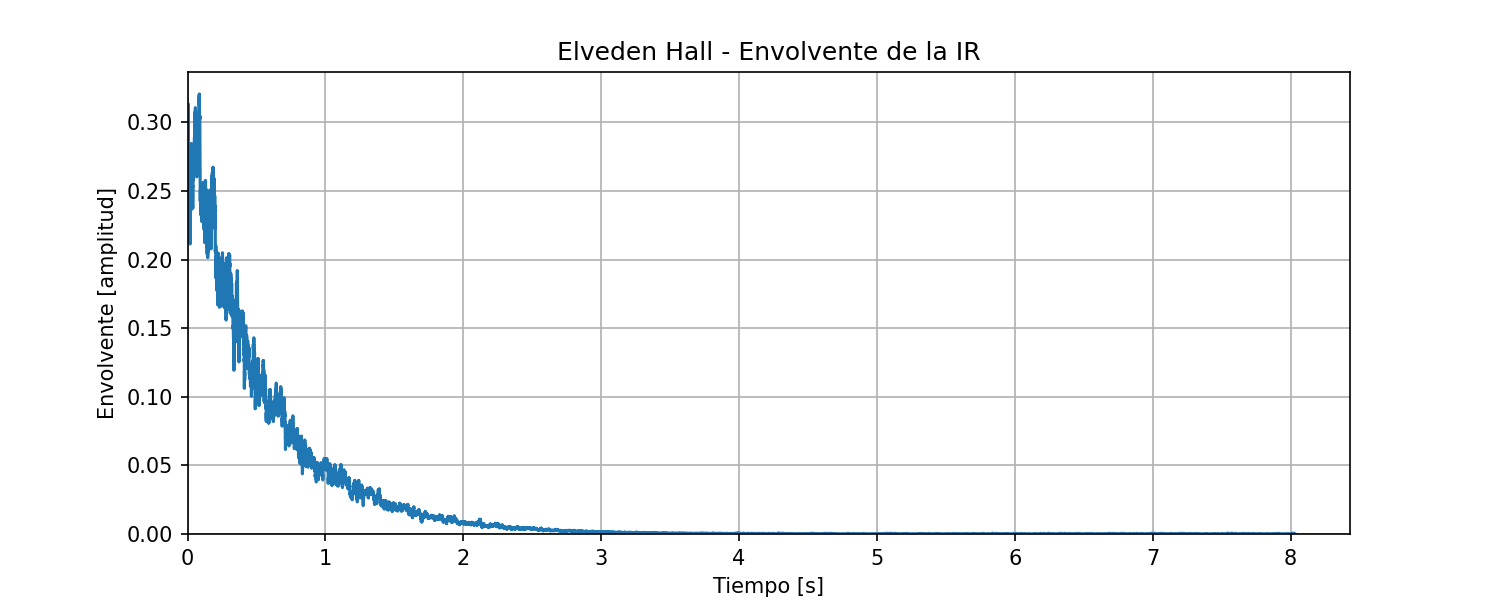
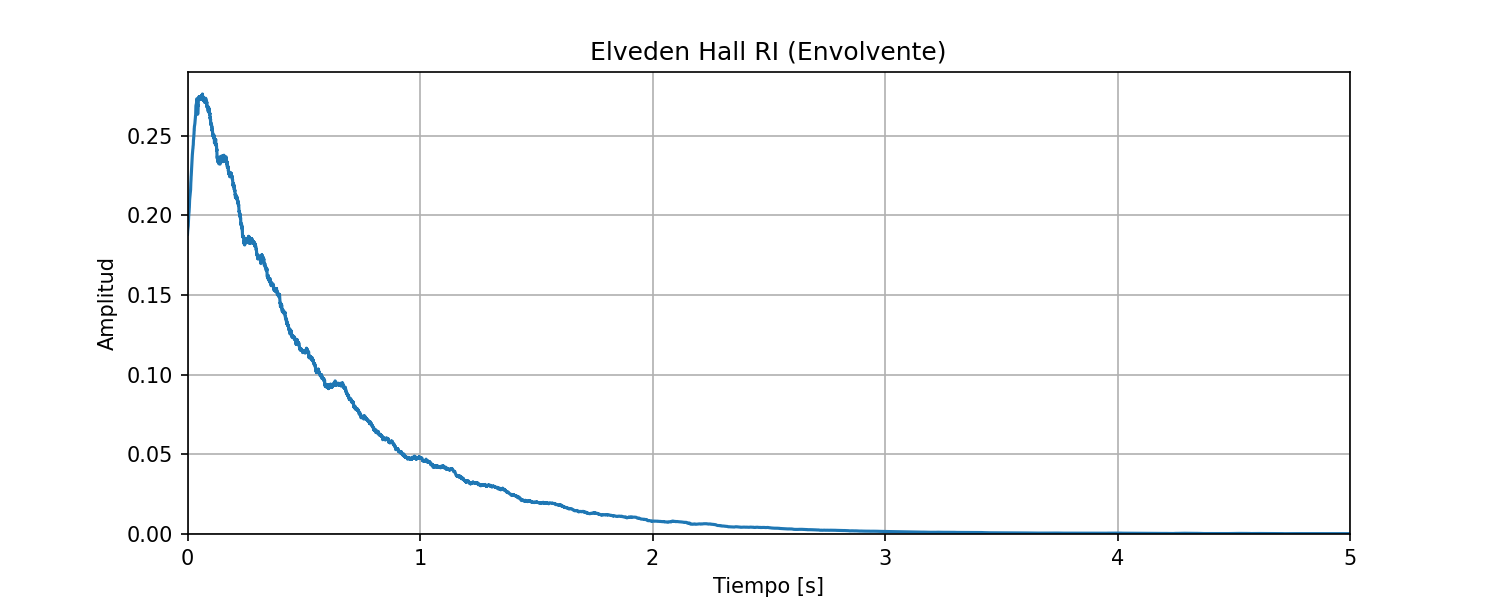
docs: Correccion de escala a graficos de M2

diff --git a/docs/m2/generate_m2.py b/docs/m2/generate_m2.py
@@ -55,14 +55,14 @@ print("OK Maes Howe OK:", ri_m.shape, fs_m)
 # PLOT ELVEDEN — IR
 # =========================
 t_e = np.arange(len(ri_e)) / fs_e
-env_e = np.sqrt(suavizar_signal(ri_e, int(0.01 * fs_e)))
+env_e = np.sqrt(suavizar_signal(ri_e, int(0.08 * fs_e)))
 
 plt.figure(figsize=(10, 4))
 plt.plot(t_e, env_e)
-plt.title("Elveden Hall - Envolvente de la IR")
+plt.title("Elveden Hall RI (Envolvente)")
 plt.xlabel("Tiempo [s]")
-plt.ylabel("Envolvente [amplitud]")
-plt.xlim(left=0)
+plt.ylabel("Amplitud")
+plt.xlim(0, 5)
 plt.ylim(bottom=0)
 plt.grid()
 
@@ -80,10 +80,10 @@ env_m = np.sqrt(suavizar_signal(ri_m, int(0.01 * fs_m)))
 
 plt.figure(figsize=(10, 4))
 plt.plot(t_m, env_m)
-plt.title("Maes Howe - Envolvente de la IR")
+plt.title("Maes Howe RI (Envolvente)")
 plt.xlabel("Tiempo [s]")
-plt.ylabel("Envolvente [amplitud]")
-plt.xlim(0, 0.6)
+plt.ylabel("Amplitud")
+plt.xlim(0, 0.5)
 plt.ylim(bottom=0)
 plt.grid()
 
